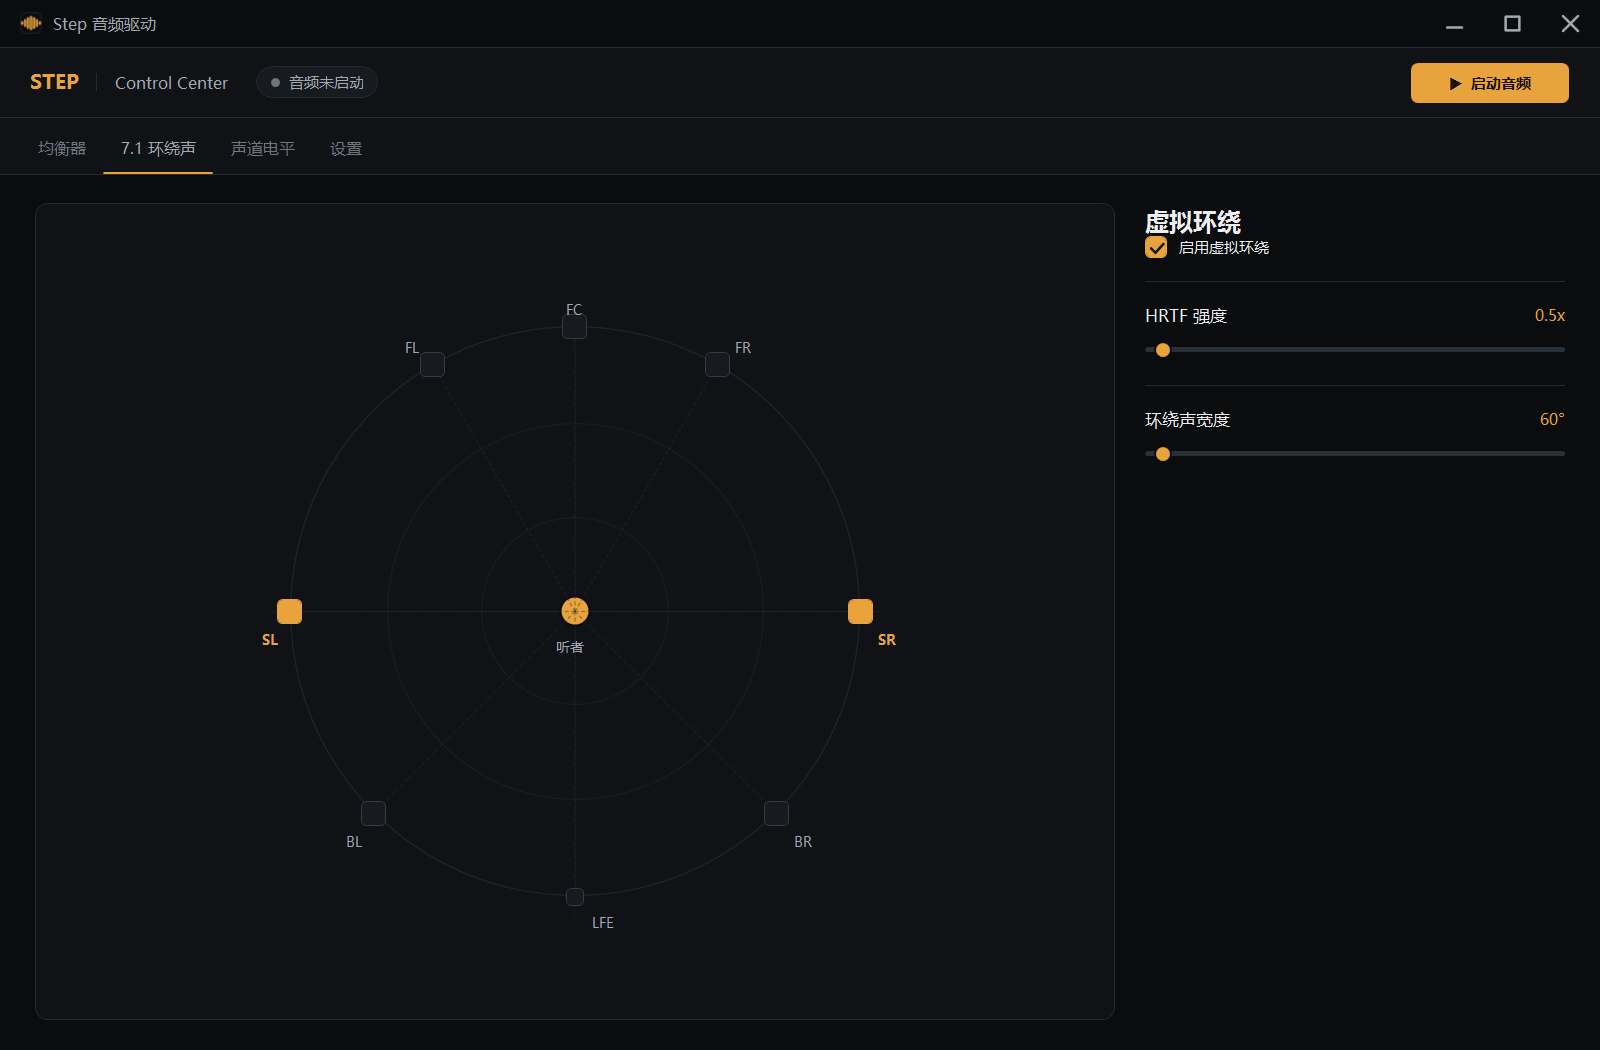
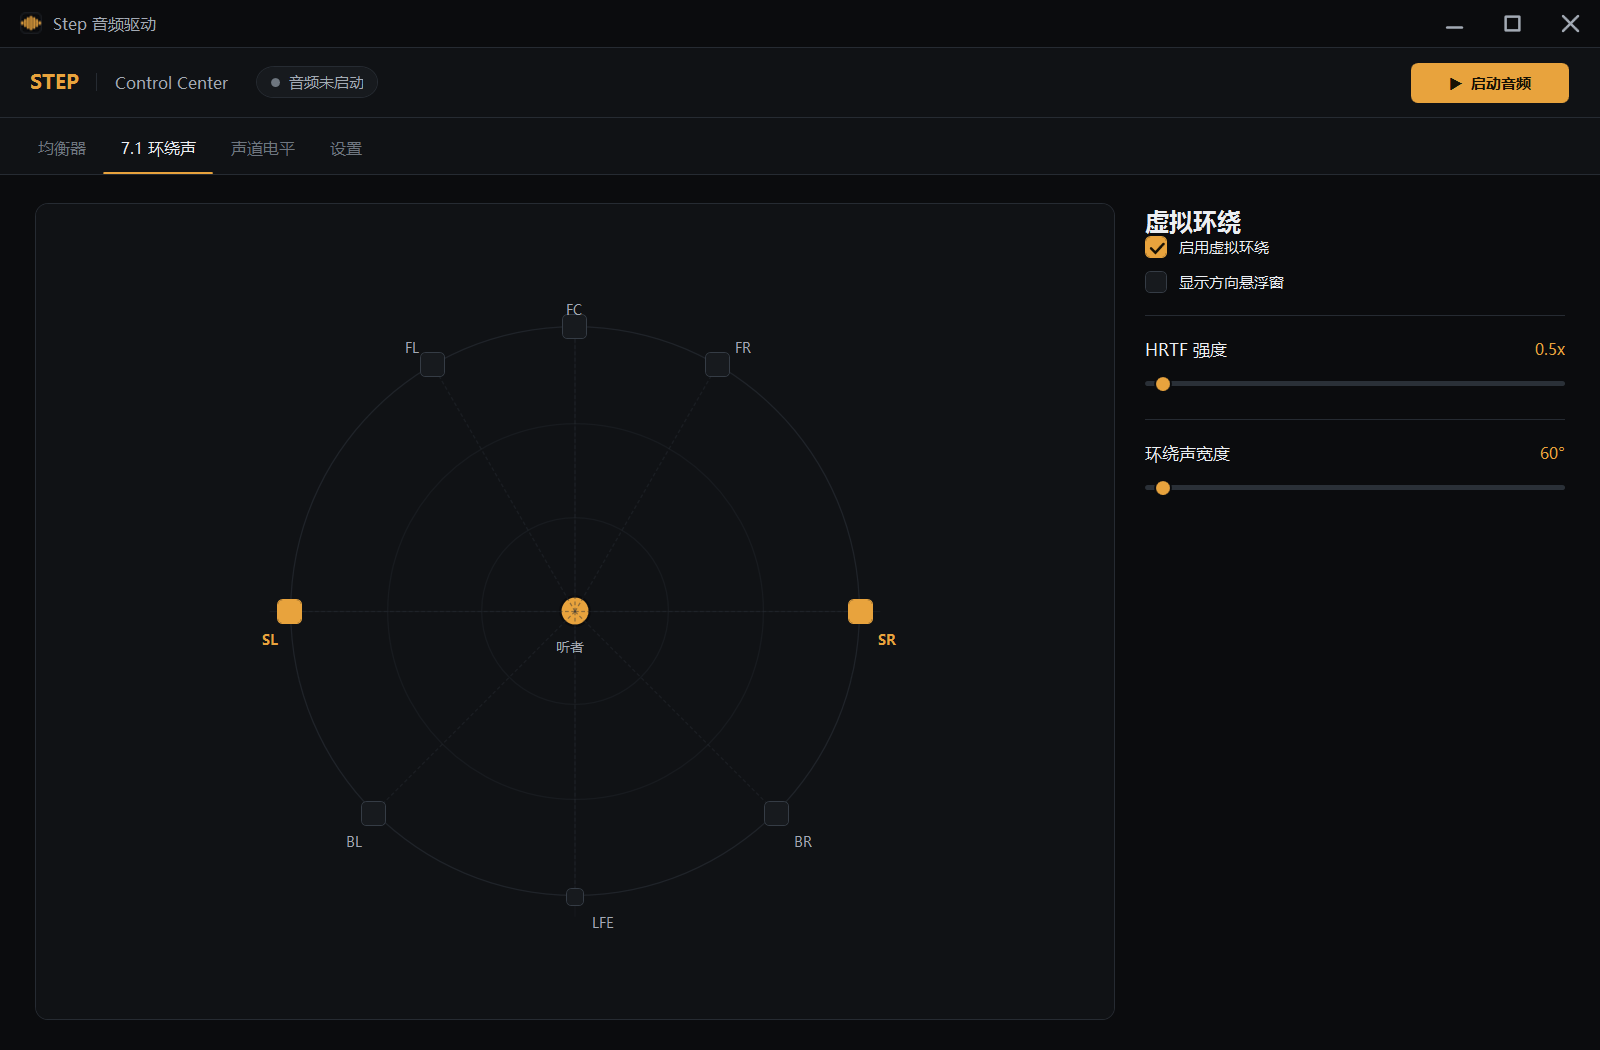
Add direction analyzer tests and refresh screenshots

Changed region(s): [[0.7188, 0.2438, 0.9688, 0.4876], [0.0938, 0.1219, 0.125, 0.1524]]

diff --git a/tests/Step.Core.Tests/SoundDirectionAnalyzerTests.cs b/tests/Step.Core.Tests/SoundDirectionAnalyzerTests.cs
@@ -1,0 +1,70 @@
+using Step.Core.Audio;
+using Xunit;
+
+namespace Step.Core.Tests;
+
+public class SoundDirectionAnalyzerTests
+{
+    [Fact]
+    public void FrontLeft_IsLeftAndFront()
+    {
+        var levels = new float[8];
+        levels[0] = 0.3f;
+
+        var direction = SoundDirectionAnalyzer.Analyze(levels);
+
+        Assert.True(direction.X < 0);
+        Assert.True(direction.Y > 0);
+        Assert.True(direction.Confidence > 0.9f);
+    }
+
+    [Fact]
+    public void BackRight_IsRightAndBack()
+    {
+        var levels = new float[8];
+        levels[5] = 0.3f;
+
+        var direction = SoundDirectionAnalyzer.Analyze(levels);
+
+        Assert.True(direction.X > 0);
+        Assert.True(direction.Y < 0);
+    }
+
+    [Fact]
+    public void Center_IsFront()
+    {
+        var levels = new float[8];
+        levels[2] = 0.3f;
+
+        var direction = SoundDirectionAnalyzer.Analyze(levels);
+
+        Assert.Equal(0f, direction.X, 3);
+        Assert.True(direction.Y > 0.9f);
+    }
+
+    [Fact]
+    public void LfeOnly_HasNoDirection()
+    {
+        var levels = new float[8];
+        levels[3] = 0.3f;
+
+        var direction = SoundDirectionAnalyzer.Analyze(levels);
+
+        Assert.Equal(0f, direction.Confidence, 3);
+        Assert.Equal(0f, direction.X, 3);
+        Assert.Equal(0f, direction.Y, 3);
+    }
+
+    [Fact]
+    public void BalancedStereo_IsCentered()
+    {
+        var levels = new float[8];
+        levels[0] = 0.3f;
+        levels[1] = 0.3f;
+
+        var direction = SoundDirectionAnalyzer.Analyze(levels);
+
+        Assert.Equal(0f, direction.X, 3);
+        Assert.True(direction.Y > 0.8f);
+    }
+}
